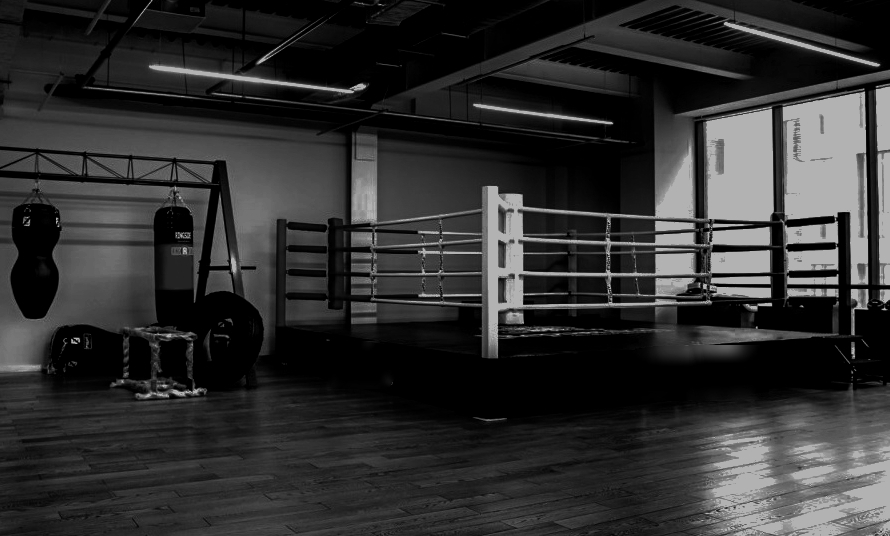
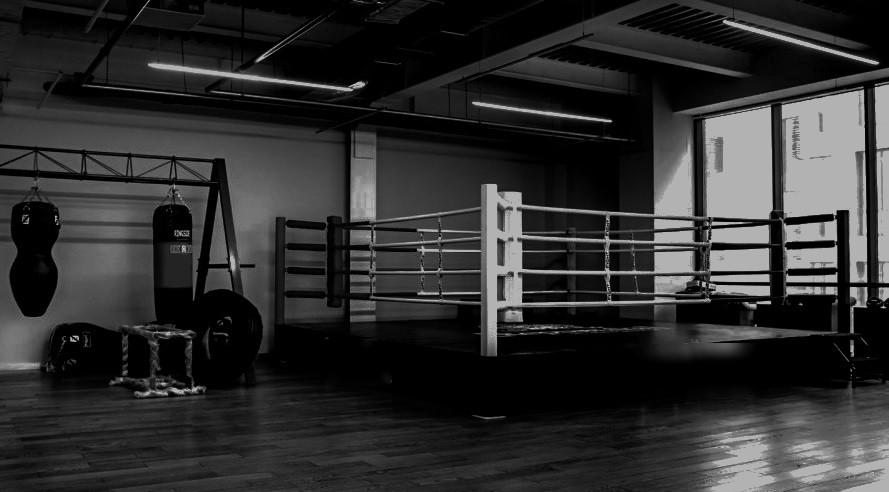
Добавил расчет activealorazh

diff --git a/index.html b/index.html
@@ -34,20 +34,6 @@
             </div>
             <div class="countBox">
                 <h3 class="countBoxTitle">Узнай свою ежедневную норму</h3>
-                <div class="infoActive">
-                    <p class="infoActiveNumber">
-                        3 - Для людей с низкой активностью, легкие тренировки 1-3 раза в неделю или в виде эквивалента другой активности.
-                    </p>
-                    <p class="infoActiveNumber">
-                        5 - Для умеренно активных людей: физическая работа средней тяжести или регулярные тренировки 3-5 дней в неделю.
-                    </p>
-                    <p class="infoActiveNumber">
-                        7 - Для очень активных людей: физическая работа полный день или интенсивные тренировки 6-7 раз в неделю.
-                    </p>
-                    <p class="infoActiveNumber">
-                        9 - Для предельно активных людей: тяжелая физическая работа и интенсивные тренировки/занятия спортом.
-                    </p>
-                </div>
                 <div class="countDisp">
                     <form class="form" action="/" method="post">
                         <div class="formParRadio"> Укажите ваш пол
@@ -68,24 +54,43 @@
                             <label for="age">Укажите ваш возраст</label>
                             <input type="text" name="age" id="age" placeholder='31' autocomplete="off">
                         </p>
-                        <!-- <p class="formParRange">
-                            <label for="active">Физическая активность</label>
-                            <input class="inputRage" type="range" name="active" id="active" max="10" list="active" value="0">                       
-                        </p>
-                        <div class="activeValue"></div>  -->
                     </form>
     
-                        <button class="countButton">Рассчитать суточный калораж</button>
+                        <button class="countButton">Рассчитать калораж</button>
                         <div class="comment"></div>
                 </div>
             </div>
         </div>
         <div class="wrapper_activeBox hide">
-            <p class="formParRange">
+            <p>Отлично! Мы рассчитали ваш базовый метаболизм (basal metabolic rate) Это показатель, определяющий, сколько конкретный человек тратит энергии для поддержания жизнедеятельности в пассивном состоянии.</p>
+            <p class="yourBMR">Ваш BMR = <span>2000 ccal</span></p>
+            <p> Для финального расчета необходимо понять сколько вы тратите энергии в течение дня с учетом всей вашей физической и умственной активности. Для этого выставьте селектор физической активности в соответствии с вашем образом жизни: </p>
+            <div class="formParRange">
                 <label for="active">Физическая активность</label>
-                <input class="inputRage" type="range" name="active" id="active" max="10" list="active" value="0">                       
-            </p>
-            <div class="activeValue"></div>
+                <input class="inputRage" type="range" name="active" id="active" max="10" list="active" value="0">
+                <div class="activeValue"></div>                       
+            </div>
+            <div class="exampleDesk">
+                <p>
+                    Примеры сопоставления физической активности с коэффициентом:
+                </p>
+                <p>
+                    1-2 — практически полное отсутствие активности. Сюда относятся люди с сидячим образом жизни, не занимающиеся спортом.
+                </p>
+                <p>
+                    3-4 — слабая активность. Это либо сидячий образ жизни в купе с небольшими тренировками 1-3 раза в неделю, либо занятия, требующие регулярной длительной ходьбы.
+                </p>
+                <p>
+                    5-6 — средняя активность. Эти коэффициенты выбирают те, кто занимается спортом 3-4 раза в неделю по 30-60 минут, имеют подвижную работу или много ходят пешком.
+                </p>
+                <p>
+                    7-8 — высокая активность. Это ежедневные или практически ежедневные тренировки, либо занятость в сфере строительства, сельского хозяйства и т.д.
+                </p>
+                <p>
+                    9-10 — экстремальная активность. Сюда относятся спортсмены с ежедневными многоразовыми тренировками и люди с длительным рабочим днем, например, в угольных шахтах.
+                </p>                
+            </div>
+            <button class="countButton">Рассчитать калораж</button>
         </div>
         <div class="wrapper_finalBox hide">
 

diff --git a/js/script.js b/js/script.js
@@ -34,6 +34,8 @@ function displayMessage (message) {
     comment.innerHTML = message;
 }
 
+let activeBox = document.querySelector('.wrapper_activeBox');
+let bmr = document.querySelector('.yourBMR span');
 
 const gender = document.querySelectorAll('input[name="gender"]');
 let weight = document.querySelector('input[name="weight"]');
@@ -46,6 +48,8 @@ let calculation = {
     yourHeight: undefined,
     yourAge: undefined,
     calorazh: undefined,
+    coef: undefined,
+    activeCalorazh: undefined,
     
     checkGender: function () {
         for (const g of gender) {
@@ -103,34 +107,53 @@ let calculation = {
 
     calculateCalories: function () {
         if (this.yourGender === 'male') {
-            this.calorazh = (10 * this.yourWeight) + (6.25 * this.yourHeight) - ( 5 * this.yourAge) + 5;
+            this.calorazh = Math.floor((10 * this.yourWeight) + (6.25 * this.yourHeight) - ( 5 * this.yourAge) + 5);
         } else if (this.yourGender === 'female') {
-            this.calorazh = (10 * this.yourWeight) + (6.25 * this.yourHeight) - (5 * this.yourAge) - 161;
+            this.calorazh = Math.floor((10 * this.yourWeight) + (6.25 * this.yourHeight) - (5 * this.yourAge) - 161);
         }          
-        
-        displayMessage(`Ваша дневная норма калорий в состоянии покоя - ${Math.floor(this.calorazh)}`);
+        this.showActiveBox();
+    },
+
+    showActiveBox: function () {
+        bmr.innerHTML = `${this.calorazh} ccal`;
+        activeBox.classList.remove('hide');
+        window.scroll ({
+            top: activeBox.offsetTop - 24,
+            behavior: "smooth"
+        })
+    },
+
+    checkActive: function () {
+        if (inputRage.value == 0) {
+            console.log('xyu');
+        } else {
+            this.coef = 1 + (Number(inputRage.value) / 10);
+            this.calculateActiveCalories();
+        }
+    },
+
+    calculateActiveCalories: function () {
+        this.activeCalorazh = this.calorazh * this.coef;
+        console.log(this.activeCalorazh);
     }
 
 }
 
 
-let countButton = document.querySelector('.countButton');
+// ----------------------------------------Запускаем процесс расчета по нажатию на кнопку----------------------------------
 
+let countButton1 = document.querySelector('.wrapper_startBox .countButton');
 
-
-countButton.addEventListener ('click', function () {
+countButton1.addEventListener ('click', function () {
     calculation.checkGender();
 })
 
 
 
+let countButton2 = document.querySelector('.wrapper_activeBox .countButton');
+
+countButton2.addEventListener ('click', function () {
+    calculation.checkActive();
+})
 
 
-let infoActive = document.querySelector('.infoActive');
-
-activeValue.onmouseover = function () {
-    infoActive.style.display = 'block';
-}
-activeValue.onmouseout = function () {
-    infoActive.style.display = 'none';
-}

diff --git a/css/style.css b/css/style.css
@@ -1,6 +1,7 @@
 body {
     background-image: url(../img/bg.jpg);
-    background-size: cover;
+    background-size: 100%;
+    background-repeat: repeat-y;
     color: #BABABA;
 }
 
@@ -217,45 +218,6 @@ input[type=range]::-webkit-slider-thumb {
     box-shadow: 2px -2px 10px;
 }
 
-.formParRange {
-    margin: 4px 28px;
-    position: relative;
-    padding: 0px;
-}
-
-
-.formParRange input {
-    position: absolute;
-    right: 44px;
-    left: 190px;
-    border: 1px solid rgba(170, 169, 169, 0.5);
-    border-radius: 6px;
-    padding: 4px;
-    cursor: default;
-}
-
-.formParRange label {
-    position: relative;
-    top: 6px;
-    margin: 0px;
-}
-
-.formParRange input:hover {
-    background-color: rgba(170, 169, 169, 0.3);
-    box-shadow: 2px -2px 10px;
-}
-
-.activeValue {
-    height: 28px;
-    width: 28px;
-    position: relative;
-    float: right;
-    bottom: 18px;
-    right: 20px;
-    cursor: help;
-}
-
-
 .countButton {
     margin: 62px auto 0px;
     display: block;
@@ -292,7 +254,7 @@ input[type=range]::-webkit-slider-thumb {
 /*-------------------------------------------------wrapper_activeBox----------------------------------------------------*/
 
 .wrapper_activeBox {
-    min-height: 260px;
+    min-height: 90vh;
     width: 60%;
     background-color: rgba(0, 0, 0, 0.8);
     backdrop-filter: blur(2px);
@@ -300,11 +262,76 @@ input[type=range]::-webkit-slider-thumb {
     margin: 80px auto;  
     border: 1px solid #454545;
     
-    padding: 4px 20px;
+    padding: 20px 30px;
 }
 
 .wrapper_activeBox div {
     margin: 16px auto;
+}
+
+.yourBMR {
+    margin: 0px auto;
+    font-size: 20px;
+    text-align: center;
+    margin: 20px;
+
+}
+
+.wrapper_activeBox .formParRange {
+    margin: 30px 40px;
+}
+
+.formParRange {
+    margin: 4px 28px;
+    position: relative;
+    padding: 0px;
+}
+
+
+.formParRange input {
+    position: absolute;
+    right: 44px;
+    left: 190px;
+    border: 1px solid rgba(170, 169, 169, 0.5);
+    border-radius: 6px;
+    padding: 4px;
+    cursor: default;
+}
+
+.formParRange label {
+    position: relative;
+    top: 6px;
+    margin: 0px;
+}
+
+.formParRange input:hover {
+    background-color: rgba(170, 169, 169, 0.3);
+    box-shadow: 2px -2px 10px;
+}
+
+.activeValue {
+    margin: 0;
+    height: 28px;
+    width: 28px;
+    cursor: help;
+    position: absolute;
+    right: 2px;
+    top: -10px;
+}
+
+.exampleDesk {
+    padding: 8px;
+    font-size: 12px;
+    color: #848484;
+}
+
+.exampleDesk p {
+    margin: 12px 0;
+}
+
+.wrapper_activeBox .countButton {
+    margin-top: 20px;
+    margin-bottom: 20px;
 }
 
 
